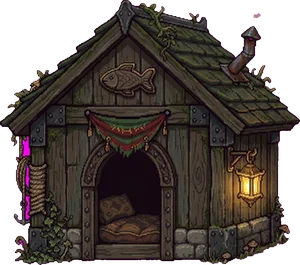
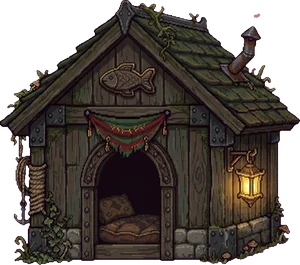
Pet house 2 and 3: remove magenta; tent level 3 sleep pose moved 20 px left and up
Claude-Session: https://claude.ai/code/session_01W4v7cyzS6Fr8aMVaGgywWE

diff --git a/js/ui.js b/js/ui.js
@@ -5960,14 +5960,17 @@ function wornCostumeTentSrc(pose) {
     return (set && set[pose]) || null;
 }
 function tentStandSrc() { return wornCostumeTentSrc('stand') || tentHeroSrc; }
+// Tent level 3 moves the sleep pose 20 px left and 20 px up (its bed is drawn a bit lower in that scene)
+const TENT_POSE_NUDGE = { 3: { sleep: { dx: -20, dy: -20 } } };
 function tentPoseLayout(el) {
     const P = TENT_POSES[tentPose];
     if (!P) return;
+    const nudge = (TENT_POSE_NUDGE[homeTentLevel()] || {})[tentPose] || { dx: 0, dy: 0 };
     setHeroSrc(el, wornCostumeTentSrc(tentPose) || P.src);
     el.style.width = P.w + 'px';
     el.style.height = P.h + 'px';
-    el.style.left = P.left + 'px';
-    el.style.top = P.top + 'px';
+    el.style.left = (P.left + nudge.dx) + 'px';
+    el.style.top = (P.top + nudge.dy) + 'px';
     el.style.maxWidth = 'none';
     el.style.maxHeight = 'none';
     el.style.animation = P.anim;
